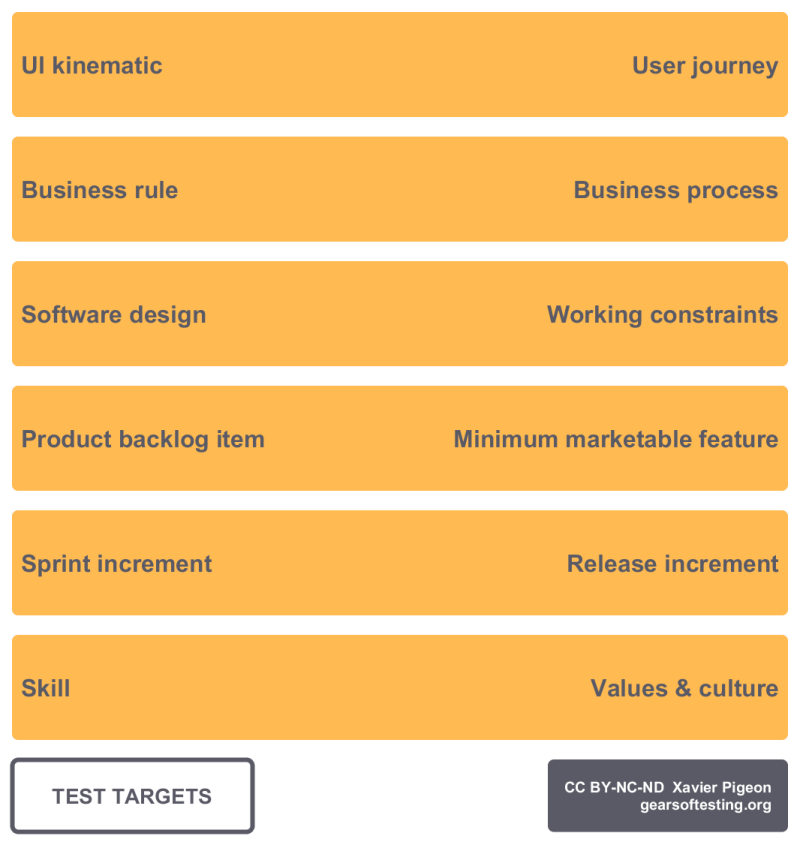
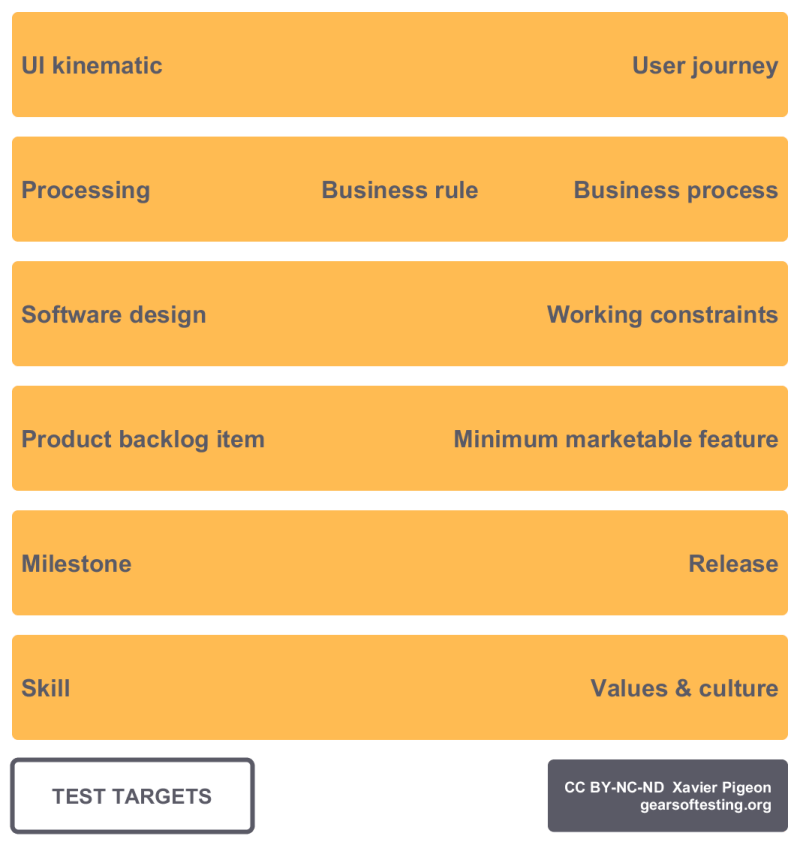
[Body of knowledge] Update the Test Typology page.
- Add new forms of test in the test tree.
- Add the performance testing areas.
- Update the categorisations with pyramid.
- Add the static vs dynamic testing.

diff --git a/test-typology.html b/test-typology.html
@@ -49,7 +49,7 @@
                 <h1 class="mbr-section-title align-center mbr-bold pb-3 mbr-fonts-style display-1">
                     TEST TYPOLOGY</h1>
                 <h3 class="mbr-section-subtitle align-center mbr-light pb-3 mbr-fonts-style display-2">the best ally against legacy tests</h3>
-                <p class="mbr-text align-center pb-3 mbr-fonts-style display-5">Do not just test your code<br>But also the way you design software<br>... and the team that delivers sofware<br>... and the organisation that creates software</p>
+                <p class="mbr-text align-center pb-3 mbr-fonts-style display-5">Do not just test your code,<br>but also the way you design software,<br>and the team that delivers sofware,<br>and the organisation that creates software.</p>
                 <div class="mbr-section-btn align-center"><a class="btn btn-md btn-secondary display-4" href="index.html#features8-u"><span class="mbri-home mbr-iconfont mbr-iconfont-btn"></span>Less</a> <a class="btn btn-md btn-white display-4" href="https://youtu.be/ppPhaOM9VA8" target="_blank"><span class="mbrib-video mbr-iconfont mbr-iconfont-btn"></span>Video conference</a> <a class="btn btn-md btn-primary display-4" href="page1.html#image2-10"><span class="mbrib-features mbr-iconfont mbr-iconfont-btn"></span>Periodic Classification</a></div>
             </div>
         </div>
@@ -57,7 +57,7 @@
 
 </section>
 
-<section class="engine"><a href="https://mobiri.se/b">create a site for free</a></section><section class="mbr-section content4 cid-r1RS3OONot" id="content4-2t">
+<section class="engine"><a href="https://mobiri.se/h">create a web page</a></section><section class="mbr-section content4 cid-r1RS3OONot" id="content4-2t">
 
     
 
@@ -80,7 +80,7 @@
 
     <figure class="mbr-figure">
         <div class="image-block" style="width: 100%;">
-            <img src="assets/images/tests-1-2566x2313.png" alt="Test Typology" title="">
+            <img src="assets/images/tests-2580x2350.png" alt="Test Typology" title="">
             
         </div>
     </figure>
@@ -127,7 +127,7 @@
     
 
     <div class="container">
-        <div><!-- Filter --><div class="mbr-gallery-filter container gallery-filter-active"><ul buttons="0"><li class="mbr-gallery-filter-all"><a class="btn btn-md btn-primary-outline active display-7" href="">All</a></li></ul></div><!-- Gallery --><div class="mbr-gallery-row"><div class="mbr-gallery-layout-default"><div><div><div class="mbr-gallery-item mbr-gallery-item--p2" data-video-url="false" data-tags="Model"><div href="#lb-gallery2-y" data-slide-to="0" data-toggle="modal"><img src="assets/images/typological-model-of-tests-1090x762-800x559.png" alt="Typological model of tests" title=""><span class="icon-focus"></span></div></div><div class="mbr-gallery-item mbr-gallery-item--p2" data-video-url="false" data-tags="Definition"><div href="#lb-gallery2-y" data-slide-to="1" data-toggle="modal"><img src="assets/images/system-under-test-en-1064x1186-800x892.png" alt="System under test" title=""><span class="icon-focus"></span></div></div><div class="mbr-gallery-item mbr-gallery-item--p2" data-video-url="false" data-tags="Definition"><div href="#lb-gallery2-y" data-slide-to="2" data-toggle="modal"><img src="assets/images/test-targets-1066x1126-800x845.png" alt="Test targets" title=""><span class="icon-focus"></span></div></div><div class="mbr-gallery-item mbr-gallery-item--p2" data-video-url="false" data-tags="Categorisation"><div href="#lb-gallery2-y" data-slide-to="3" data-toggle="modal"><img src="assets/images/box-black-gray-white-754x794-754x794.png" alt="Black, gray or white box" title=""><span class="icon-focus"></span></div></div><div class="mbr-gallery-item mbr-gallery-item--p2" data-video-url="false" data-tags="Categorisation"><div href="#lb-gallery2-y" data-slide-to="4" data-toggle="modal"><img src="assets/images/manual-tooled-automated-1094x842-800x616.png" alt="Testing: manual, tooled, automated" title=""><span class="icon-focus"></span></div></div><div class="mbr-gallery-item mbr-gallery-item--p2" data-video-url="false" data-tags="Categorisation"><div href="#lb-gallery2-y" data-slide-to="5" data-toggle="modal"><img src="assets/images/testing-positive-negative-synthetic-analytical-1928x1930-800x801.png" alt="Testing: positive, negative, synthetic, analytical" title=""><span class="icon-focus"></span></div></div><div class="mbr-gallery-item mbr-gallery-item--p2" data-video-url="false" data-tags="Categorisation"><div href="#lb-gallery2-y" data-slide-to="6" data-toggle="modal"><img src="assets/images/structured-scripted-long-scripted-adhoc-1324x434-800x262.png" alt="ad hoc, structured, short-scripted, long-scripted" title=""><span class="icon-focus"></span></div></div><div class="mbr-gallery-item mbr-gallery-item--p2" data-video-url="false" data-tags="Categorisation"><div href="#lb-gallery2-y" data-slide-to="7" data-toggle="modal"><img src="assets/images/categorisations-with-pyramid-1664x936-800x450.png" alt="Categorisations with pyramid" title=""><span class="icon-focus"></span></div></div></div></div><div class="clearfix"></div></div></div><!-- Lightbox --><div data-app-prevent-settings="" class="mbr-slider modal fade carousel slide" tabindex="-1" data-keyboard="true" data-interval="false" id="lb-gallery2-y"><div class="modal-dialog"><div class="modal-content"><div class="modal-body"><div class="carousel-inner"><div class="carousel-item"><img src="assets/images/typological-model-of-tests-1090x762.png" alt="Typological model of tests" title=""></div><div class="carousel-item"><img src="assets/images/system-under-test-en-1064x1186.png" alt="System under test" title=""></div><div class="carousel-item active"><img src="assets/images/test-targets-1066x1126.png" alt="Test targets" title=""></div><div class="carousel-item"><img src="assets/images/box-black-gray-white-754x794.png" alt="Black, gray or white box" title=""></div><div class="carousel-item"><img src="assets/images/manual-tooled-automated-1094x842.png" alt="Testing: manual, tooled, automated" title=""></div><div class="carousel-item"><img src="assets/images/testing-positive-negative-synthetic-analytical-1928x1930.png" alt="Testing: positive, negative, synthetic, analytical" title=""></div><div class="carousel-item"><img src="assets/images/structured-scripted-long-scripted-adhoc-1324x434.png" alt="ad hoc, structured, short-scripted, long-scripted" title=""></div><div class="carousel-item"><img src="assets/images/categorisations-with-pyramid-1664x936.png" alt="Categorisations with pyramid" title=""></div></div><a class="carousel-control carousel-control-prev" role="button" data-slide="prev" href="#lb-gallery2-y"><span class="mbri-left mbr-iconfont" aria-hidden="true"></span><span class="sr-only">Previous</span></a><a class="carousel-control carousel-control-next" role="button" data-slide="next" href="#lb-gallery2-y"><span class="mbri-right mbr-iconfont" aria-hidden="true"></span><span class="sr-only">Next</span></a><a class="close" href="#" role="button" data-dismiss="modal"><span class="sr-only">Close</span></a></div></div></div></div></div>
+        <div><!-- Filter --><div class="mbr-gallery-filter container gallery-filter-active"><ul buttons="0"><li class="mbr-gallery-filter-all"><a class="btn btn-md btn-primary-outline active display-7" href="">All</a></li></ul></div><!-- Gallery --><div class="mbr-gallery-row"><div class="mbr-gallery-layout-default"><div><div><div class="mbr-gallery-item mbr-gallery-item--p2" data-video-url="false" data-tags="Model"><div href="#lb-gallery2-y" data-slide-to="0" data-toggle="modal"><img src="assets/images/typological-model-of-tests-1090x762-800x559.png" alt="Typological model of tests" title=""><span class="icon-focus"></span></div></div><div class="mbr-gallery-item mbr-gallery-item--p2" data-video-url="false" data-tags="Definition"><div href="#lb-gallery2-y" data-slide-to="1" data-toggle="modal"><img src="assets/images/system-under-test-en-1064x1186-800x892.png" alt="System under test" title=""><span class="icon-focus"></span></div></div><div class="mbr-gallery-item mbr-gallery-item--p2" data-video-url="false" data-tags="Definition"><div href="#lb-gallery2-y" data-slide-to="2" data-toggle="modal"><img src="assets/images/test-targets-1066x1126-800x845.png" alt="Test targets" title=""><span class="icon-focus"></span></div></div><div class="mbr-gallery-item mbr-gallery-item--p2" data-video-url="false" data-tags="Categorisation"><div href="#lb-gallery2-y" data-slide-to="3" data-toggle="modal"><img src="assets/images/box-black-gray-white-754x794-754x794.png" alt="Black, gray or white box" title=""><span class="icon-focus"></span></div></div><div class="mbr-gallery-item mbr-gallery-item--p2" data-video-url="false" data-tags="Categorisation"><div href="#lb-gallery2-y" data-slide-to="4" data-toggle="modal"><img src="assets/images/manual-tooled-automated-1094x842-800x616.png" alt="Testing: manual, tooled, automated" title=""><span class="icon-focus"></span></div></div><div class="mbr-gallery-item mbr-gallery-item--p2" data-video-url="false" data-tags="Categorisation"><div href="#lb-gallery2-y" data-slide-to="5" data-toggle="modal"><img src="assets/images/testing-positive-negative-synthetic-analytical-1928x1930-800x801.png" alt="Testing: positive, negative, synthetic, analytical" title=""><span class="icon-focus"></span></div></div><div class="mbr-gallery-item mbr-gallery-item--p2" data-video-url="false" data-tags="Categorisation"><div href="#lb-gallery2-y" data-slide-to="6" data-toggle="modal"><img src="assets/images/structured-scripted-long-scripted-adhoc-1324x434-800x262.png" alt="ad hoc, structured, short-scripted, long-scripted" title=""><span class="icon-focus"></span></div></div><div class="mbr-gallery-item mbr-gallery-item--p2" data-video-url="false" data-tags="Categorisation"><div href="#lb-gallery2-y" data-slide-to="7" data-toggle="modal"><img src="assets/images/categorisations-with-pyramid-1-1664x944-800x454.png" alt="Categorisations with a pyramid" title=""><span class="icon-focus"></span></div></div><div class="mbr-gallery-item mbr-gallery-item--p2" data-video-url="false" data-tags="Categorisation"><div href="#lb-gallery2-y" data-slide-to="8" data-toggle="modal"><img src="assets/images/performance-testing-areas-1488x1452-800x781.png" alt="Performance testing areas" title=""><span class="icon-focus"></span></div></div><div class="mbr-gallery-item mbr-gallery-item--p2" data-video-url="false" data-tags="Categorisation"><div href="#lb-gallery2-y" data-slide-to="9" data-toggle="modal"><img src="assets/images/static-vs-dynamic-testing-1046x750-800x574.png" alt="Static vs dynamic testing" title=""><span class="icon-focus"></span></div></div></div></div><div class="clearfix"></div></div></div><!-- Lightbox --><div data-app-prevent-settings="" class="mbr-slider modal fade carousel slide" tabindex="-1" data-keyboard="true" data-interval="false" id="lb-gallery2-y"><div class="modal-dialog"><div class="modal-content"><div class="modal-body"><div class="carousel-inner"><div class="carousel-item"><img src="assets/images/typological-model-of-tests-1090x762.png" alt="Typological model of tests" title=""></div><div class="carousel-item"><img src="assets/images/system-under-test-en-1064x1186.png" alt="System under test" title=""></div><div class="carousel-item active"><img src="assets/images/test-targets-1066x1126.png" alt="Test targets" title=""></div><div class="carousel-item"><img src="assets/images/box-black-gray-white-754x794.png" alt="Black, gray or white box" title=""></div><div class="carousel-item"><img src="assets/images/manual-tooled-automated-1094x842.png" alt="Testing: manual, tooled, automated" title=""></div><div class="carousel-item"><img src="assets/images/testing-positive-negative-synthetic-analytical-1928x1930.png" alt="Testing: positive, negative, synthetic, analytical" title=""></div><div class="carousel-item"><img src="assets/images/structured-scripted-long-scripted-adhoc-1324x434.png" alt="ad hoc, structured, short-scripted, long-scripted" title=""></div><div class="carousel-item"><img src="assets/images/categorisations-with-pyramid-1-1664x944.png" alt="Categorisations with a pyramid" title=""></div><div class="carousel-item"><img src="assets/images/performance-testing-areas-1488x1452.png" alt="Performance testing areas" title=""></div><div class="carousel-item"><img src="assets/images/static-vs-dynamic-testing-1046x750.png" alt="Static vs dynamic testing" title=""></div></div><a class="carousel-control carousel-control-prev" role="button" data-slide="prev" href="#lb-gallery2-y"><span class="mbri-left mbr-iconfont" aria-hidden="true"></span><span class="sr-only">Previous</span></a><a class="carousel-control carousel-control-next" role="button" data-slide="next" href="#lb-gallery2-y"><span class="mbri-right mbr-iconfont" aria-hidden="true"></span><span class="sr-only">Next</span></a><a class="close" href="#" role="button" data-dismiss="modal"><span class="sr-only">Close</span></a></div></div></div></div></div>
     </div>
 
 </section>

diff --git a/index.html b/index.html
@@ -60,7 +60,7 @@
     </div>
 </section>
 
-<section class="engine"><a href="https://mobiri.se/b">how to create your own site for free</a></section><section class="features8 cid-qUtNrvByr9 mbr-parallax-background" id="features8-u">
+<section class="engine"><a href="https://mobiri.se/s">free bootstrap themes</a></section><section class="features8 cid-qUtNrvByr9 mbr-parallax-background" id="features8-u">
 
     
 
@@ -378,7 +378,7 @@
                     <p class="mbr-text mbr-fonts-style display-5">
                         Coding is an inner journey. And music softens manners as well as coding.</p>
                 </div>
-                <div class="mbr-section-btn"><a class="btn btn-md btn-secondary display-4" href="https://goo.gl/znhkY6" target="_blank">Listen</a></div>
+                <div class="mbr-section-btn"><a class="btn btn-md btn-primary display-4" href="https://goo.gl/znhkY6" target="_blank">Listen</a></div>
             </div>
         </div>
     </div>

diff --git a/method.html b/method.html
@@ -66,7 +66,7 @@
     </nav>
 </section>
 
-<section class="engine"><a href="https://mobiri.se/h">how to create a web page for free</a></section><section class="carousel slide cid-qZo5mlC2MR" data-interval="false" id="slider1-1o">
+<section class="engine"><a href="https://mobiri.se/j">website templates</a></section><section class="carousel slide cid-qZo5mlC2MR" data-interval="false" id="slider1-1o">
 
     
 

diff --git a/tempo-of-testing.html b/tempo-of-testing.html
@@ -58,7 +58,7 @@
 
 </section>
 
-<section class="engine"><a href="https://mobiri.se/e">make your own website</a></section><section class="mbr-section content4 cid-qZXkHcxAkz" id="content4-2i">
+<section class="engine"><a href="https://mobiri.se/o">free portfolio website templates</a></section><section class="mbr-section content4 cid-qZXkHcxAkz" id="content4-2i">
 
     
 

diff --git a/legacy-tests.html b/legacy-tests.html
@@ -58,7 +58,7 @@
 
 </section>
 
-<section class="engine"><a href="https://mobiri.se/t">free amp template</a></section><section class="mbr-section content4 cid-qZnWIS0ri7" id="content4-1m">
+<section class="engine"><a href="https://mobiri.se/x">css templates</a></section><section class="mbr-section content4 cid-qZnWIS0ri7" id="content4-1m">
 
     
 

diff --git a/software-testing-manifesto.html b/software-testing-manifesto.html
@@ -56,7 +56,7 @@
 
 </section>
 
-<section class="engine"><a href="https://mobiri.se/j">website templates</a></section><section class="mbr-section content4 cid-r27BYFd6xJ" id="content4-30">
+<section class="engine"><a href="https://mobiri.se">Mobirise</a></section><section class="mbr-section content4 cid-r27BYFd6xJ" id="content4-30">
 
     
 
